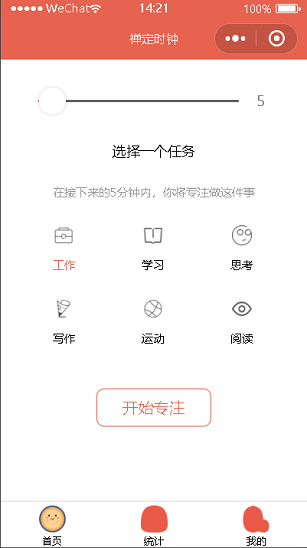
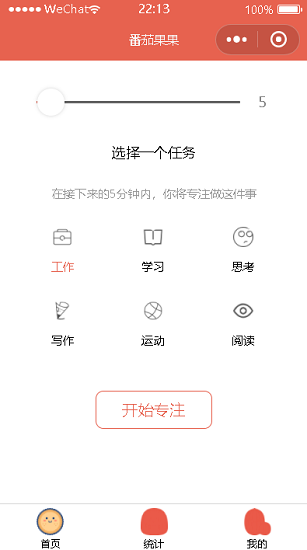
1122

diff --git a/README.md b/README.md
@@ -2,7 +2,7 @@
 本项目适合微信小程序入门者学习。
 
 **主要功能**   
-番茄时钟主要分为三个界面。  
+番茄果果主要分为三个界面。  
 第一个界面为首页，是小程序的主要功能界面，你可以在这里选择你要进行的活动内容以及时间，点击开始专注进入活动倒计时页面，活动开始后可以暂停也可以放弃，但是放弃本次活动不会被记录。  
 第二个界面是统计界面，主要用来统计用户今日番茄时间以及次数和历史番茄时间和次数。  
 第三个界面为我的界面，显示登录的用户头像，操作指引为新用户提供小程序操作说明，清空记录可以删除用户的统计数据，关于作者里面放了此小程序作者的联系方式以供用户直接反馈和探讨，联系客服可以不用添加作者好友直接通过客服来进行问题咨询，意见反馈用户可以把本程序的不足以及建议发送给程序管理员。  
